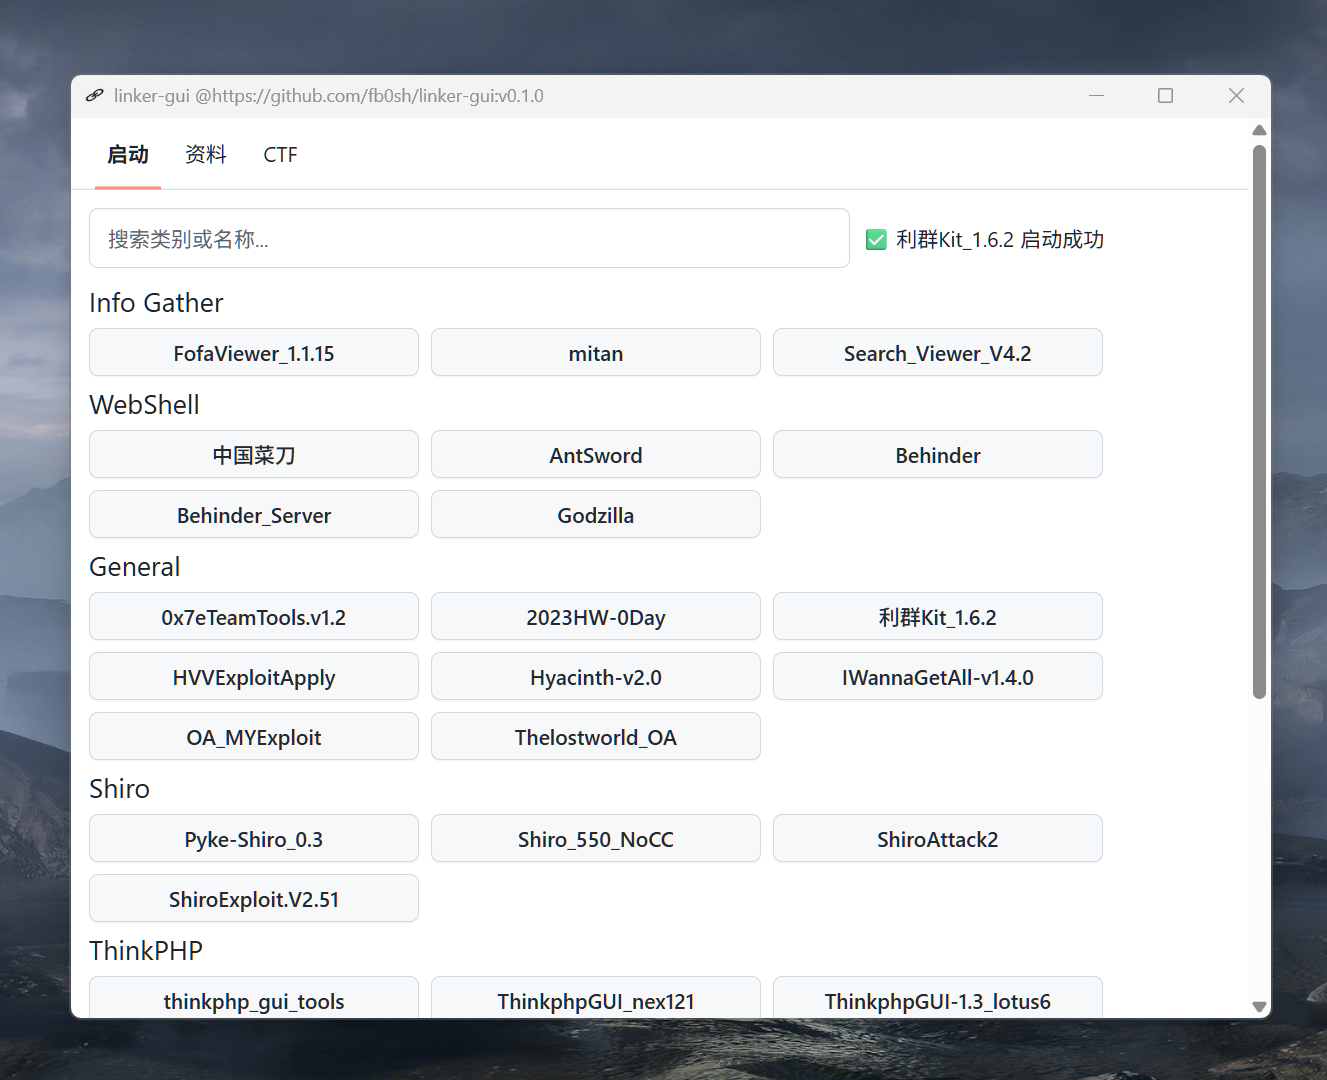
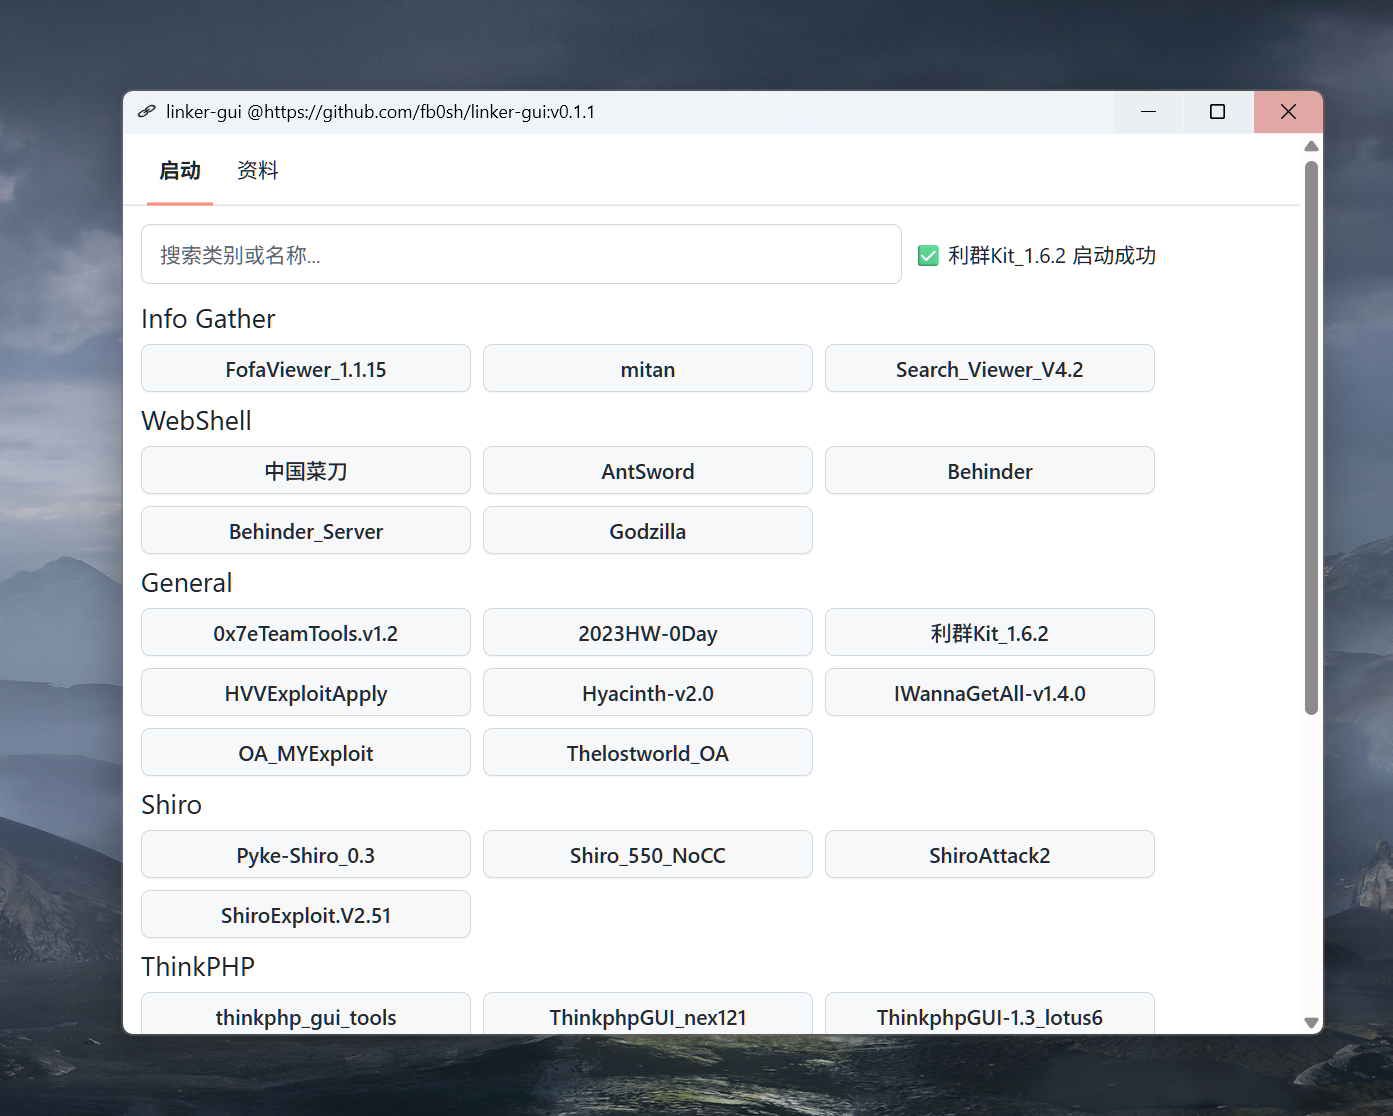
remove ctf

diff --git a/src/App.tsx b/src/App.tsx
@@ -1,7 +1,7 @@
 
 import { UnderlinePanels } from '@primer/react/experimental'
 import LaunchView from "./views/LaunchView";
-import CTFView from "./views/CTF/CTFView";
+
 
 
 function App() {
@@ -11,16 +11,11 @@ function App() {
 
       <UnderlinePanels.Tab>启动</UnderlinePanels.Tab>
       <UnderlinePanels.Tab>资料</UnderlinePanels.Tab>
-      <UnderlinePanels.Tab>CTF</UnderlinePanels.Tab>
-
 
       <UnderlinePanels.Panel>
         <LaunchView />
       </UnderlinePanels.Panel>
       <UnderlinePanels.Panel>Panel 2</UnderlinePanels.Panel>
-      <UnderlinePanels.Panel>
-        <CTFView />
-      </UnderlinePanels.Panel>
     </UnderlinePanels>
   );
 }
